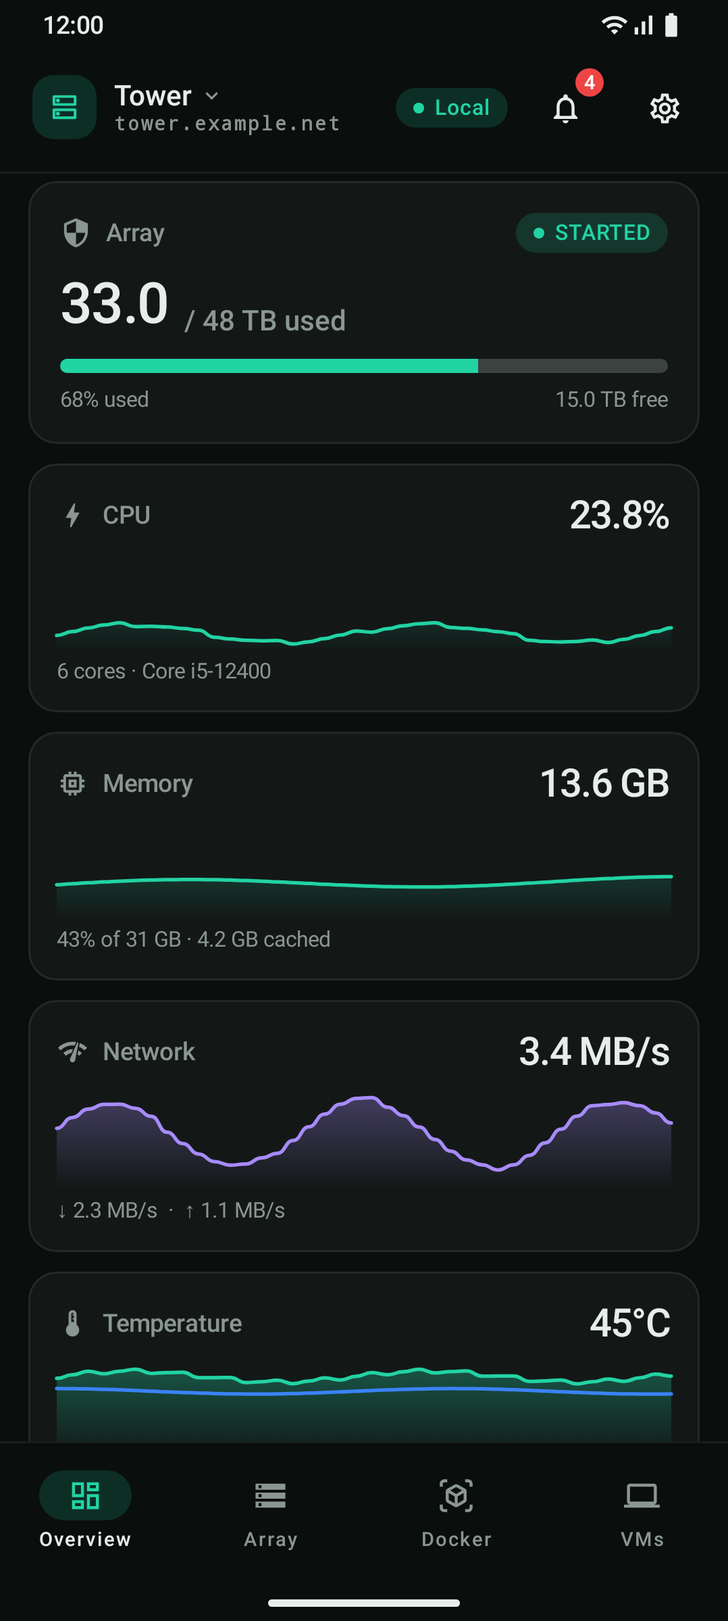
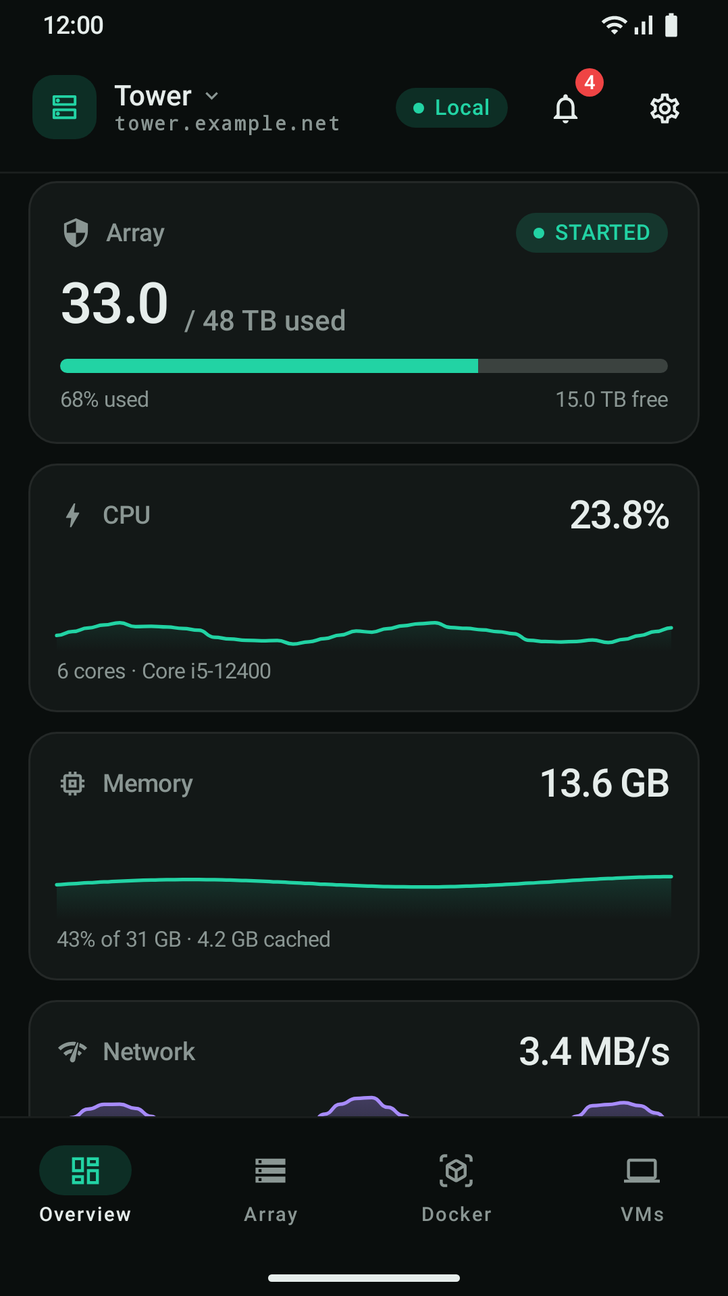
docs: store listing assets and texts ready for Google Play
Screenshots: render at 1078x1918 (9:16). Google Play rejects a longer side of
more than twice the shorter one, which the old 1078x2399 size broke; F-Droid
has no such limit, so one size serves both. All six re-rendered from the
current origin/main; site/index.html gets the new image height.

Graphics: icon.png is now a 32-bit PNG with alpha, rendered from icon.svg;
featureGraphic.png (1024x500, no alpha) is new, drawn from featureGraphic.svg
with the launcher mark, the website's colours and its Geist font (SIL OFL) and
two app screenshots. scripts/render-store-graphics.sh renders both.

Texts and declarations under docs/store/: Play title, short and full
description (Lime Technology attribution verbatim, kept apart from F-Droid's
fastlane texts), Data safety answers derived from the store flavor with
file:line evidence, content rating, target audience and ads, and the App
access text with a marked placeholder until the in-app demo mode exists.

ADR-0047 records Google Play as a third channel (store flavor, existing
release key via Play App Signing with a separate upload key, demo mode for
reviewers); ADR-0040 gets a dated amendment.

Refs #328

diff --git a/site/index.html b/site/index.html
@@ -89,7 +89,7 @@
                   src="assets/screenshots/1.png"
                   loading="lazy"
                   width="1078"
-                  height="2399"
+                  height="1918"
                   alt="The Overview tab: array capacity, CPU load, memory, network speed and temperature"
               /></a>
               <p>Overview</p>
@@ -100,7 +100,7 @@
                   src="assets/screenshots/2.png"
                   loading="lazy"
                   width="1078"
-                  height="2399"
+                  height="1918"
                   alt="The Array tab: array status with a stop button and a check parity button, then every disk with temperature and usage"
               /></a>
               <p>Array</p>
@@ -111,7 +111,7 @@
                   src="assets/screenshots/3.png"
                   loading="lazy"
                   width="1078"
-                  height="2399"
+                  height="1918"
                   alt="The Docker tab: a banner for containers with updates and a list of containers with status and CPU and memory use"
               /></a>
               <p>Docker</p>
@@ -122,7 +122,7 @@
                   src="assets/screenshots/4.png"
                   loading="lazy"
                   width="1078"
-                  height="2399"
+                  height="1918"
                   alt="The VMs tab: virtual machines with their state and a start, pause or resume button"
               /></a>
               <p>VMs</p>
@@ -133,7 +133,7 @@
                   src="assets/screenshots/5.png"
                   loading="lazy"
                   width="1078"
-                  height="2399"
+                  height="1918"
                   alt="Container details: update, restart, stop and open Web UI buttons, with tabs for info, logs, ports and volumes"
               /></a>
               <p>Container details</p>
@@ -144,7 +144,7 @@
                   src="assets/screenshots/6.png"
                   loading="lazy"
                   width="1078"
-                  height="2399"
+                  height="1918"
                   alt="The notifications sheet with Unread and Archived tabs and an Archive all button"
               /></a>
               <p>Notifications</p>

diff --git a/app/src/test/kotlin/io/github/nofuturekid/nova/ui/screenshots/StoreScreenshots.kt b/app/src/test/kotlin/io/github/nofuturekid/nova/ui/screenshots/StoreScreenshots.kt
@@ -87,8 +87,10 @@ import org.robolectric.annotation.GraphicsMode
  */
 @RunWith(AndroidJUnit4::class)
 @GraphicsMode(GraphicsMode.Mode.NATIVE)
-// Pixel-8-class phone: 411x914 dp at 420 dpi = ~1080x2400 px.
-@Config(sdk = [35], qualifiers = "w411dp-h914dp-night-420dpi")
+// 411x731 dp at 420 dpi = 1078x1918 px (9:16). Google Play rejects phone
+// screenshots whose longer side is more than twice the shorter one, which
+// the earlier 20:9 size (1078x2399) broke; F-Droid has no such limit.
+@Config(sdk = [35], qualifiers = "w411dp-h731dp-night-420dpi")
 class StoreScreenshots {
 
     @get:Rule

diff --git a/docs/store/data-safety.md b/docs/store/data-safety.md
@@ -1,0 +1,34 @@
+# Google Play Data safety: answers for NOVA (`store` flavor)
+
+Derived from the code of the `store` flavor on `origin/main` (2026-11-13, versionName 0.1.47) and checked against Google's definitions on <https://support.google.com/googleplay/android-developer/answer/10787469> (read 2026-11-13). Where Google's text does not settle a question, the answer is a judgement and marked **[judgement]**; the maintainer owns the form and enters it.
+
+## What the `store` flavor does
+
+| Fact                                                                                                                                                                | Evidence                                                                                                                                                                                                                                              |
+| ------------------------------------------------------------------------------------------------------------------------------------------------------------------- | ----------------------------------------------------------------------------------------------------------------------------------------------------------------------------------------------------------------------------------------------------- |
+| The only permissions are `INTERNET` and `ACCESS_NETWORK_STATE`. No location, contacts, camera, microphone, storage, notification or advertising-ID permission.       | `app/src/main/AndroidManifest.xml:5-6`; `REQUEST_INSTALL_PACKAGES` is removed in every flavor, `:13-15`                                                                                                                                                |
+| The store flavor makes no update calls and has no GitHub traffic.                                                                                                    | `app/build.gradle.kts:31-33` (`create("store")`, `HAS_UPDATER` false); `UpdateTracker.kt:68` `followsTheSetting = BuildConfig.HAS_UPDATER, // the store flavor makes no update calls`; `MainViewModel.kt:292,322`; `SettingsScreen.kt:117,135`           |
+| The app talks to the Unraid server the user configured, over GraphQL (HTTP and WebSocket), and sends the user's API key to it in the `x-api-key` header or the WebSocket connection payload. | `ApolloClientFactory.kt:139` `connectionPayload = { mapOf("x-api-key" to apiKey) }`; `:180` `.addHeader("x-api-key", apiKey)`                                                                                                                          |
+| Container icons are fetched from the URLs the user's server supplies (usually third-party hosts such as `raw.githubusercontent.com`); the request carries no credential or identifier of NOVA's. | `ContainerIcon.kt:36` (`SubcomposeAsyncImage(model = resolved ...)`); `docs/privacy/POLICY.md:27`                                                                                                                                                       |
+| "Open Web UI", "Source code", "Releases" and "Privacy policy" only open a URL in the user's browser on tap.                                                          | `ContainerDetailSheet.kt:286-288`; `SettingsScreen.kt:393-413`                                                                                                                                                                                         |
+| Plain HTTP is allowed to every host except three GitHub hosts, because users reach their server on the LAN by HTTP.                                                  | `AndroidManifest.xml:28` `android:usesCleartextTraffic="true"`; `res/xml/network_security_config.xml:15` `<base-config cleartextTrafficPermitted="true" />`, `:17-21` GitHub hosts HTTPS-only                                                          |
+| Stored on the device only: server names and addresses, theme settings, the API key encrypted with Tink AES-256-GCM under an Android Keystore master key, pinned certificate fingerprints. | `SettingsStore.kt:25` (`unraid_prefs`); `ApiKeyStore.kt:29` (`unraid_keys`), `:177-179` (Keystore-wrapped keyset); `docs/privacy/POLICY.md:11-14`                                                                                                      |
+| None of it is in cloud backup or device transfer.                                                                                                                    | `res/xml/backup_rules.xml:17-22`; `res/xml/data_extraction_rules.xml:15-27`                                                                                                                                                                            |
+| No analytics, crash reporting, advertising or other third-party SDK; HTTP logging is off in release builds.                                                          | dependency list `app/build.gradle.kts:148-188` (Compose, Hilt, Apollo, OkHttp, Coil, Tink, DataStore, markdown and licence viewers); `ApolloClientFactory.kt:49-53` (`Level.NONE` unless `DEBUG`); `docs/privacy/POLICY.md:29`                            |
+
+## Answers for the form
+
+| Question                                                                  | Answer                         | Why                                                                                                                                                                                                                                                                                                                                                               |
+| ------------------------------------------------------------------------- | ------------------------------ | ----------------------------------------------------------------------------------------------------------------------------------------------------------------------------------------------------------------------------------------------------------------------------------------------------------------------------------------------------------------- |
+| Does your app collect or share any of the required user data types?       | **No** **[judgement]**         | Google: "'Collect' means transmitting data off a user's device", exempting on-device processing, end-to-end encryption and ephemeral processing. NOVA's developer receives nothing. What leaves the phone goes to the server the user runs themselves and to the icon hosts that server names. Google has no rule for a user-hosted server; the nearest case (the user's own cloud storage) is exempt when the app "never collects or accesses the data". Comparable self-hosted clients on Play state "no data collected". |
+| Is all of the user data collected by your app encrypted in transit?       | **No**                         | The form asks this whatever the answer above. NOVA allows cleartext HTTP to the LAN (`AndroidManifest.xml:28`, `network_security_config.xml:15`), so it cannot claim "encrypted in transit". Answering "No" is the accurate statement.                                                                                                                            |
+| Do you provide a way for users to request that their data is deleted?     | Not applicable                 | The developer holds no user data. Uninstalling removes all local data (`docs/privacy/POLICY.md`, "Your rights").                                                                                                                                                                                                                                                  |
+| Independent security review                                               | No                             | None was done.                                                                                                                                                                                                                                                                                                                                                    |
+| Families policy                                                           | Not committed                  | The target audience is 18 and over (`app-content.md`).                                                                                                                                                                                                                                                                                                             |
+| Privacy policy URL                                                        | <https://github.com/hellwand/nova/blob/main/docs/privacy/POLICY.md> | Linked in the app under Settings, About (`SettingsScreen.kt:413`). Google asks for a "standard, non-editable webpage"; if a reviewer objects to a GitHub page, the policy can be copied to the project website (`site/`). Before the listing goes live, change the future-tense mention of Google Play in the policy.                                            |
+
+If Google's form pushes for a different answer on the first row (for example because the server address and API key count as sent off-device), the fallback is: collected, **not** shared, purpose "App functionality", data types limited to what the user typed (server address, API key), and the note that it goes only to the user's own server. Record the outcome in ADR-0047 if that happens.
+
+## Review risks noted while reading the code
+
+- `Tls.kt:114-127` (`LocalPinningTrustManager`) catches the `CertificateException` of the platform's default manager, then lets the chain pass only when it is CA-valid or matches a fingerprint the user pinned; a first-seen certificate throws unless the user confirmed it, a changed one always throws (ADR-0041, `decidePinnedTrust`). It is not a trust-all manager, but Google's FAQ (<https://support.google.com/faqs/answer/6346016>) warns about `TrustManager`s that ignore certificate errors, and the pattern of catching the exception looks similar. Whether Play's scanner flags it is unknown: watch the pre-launch report after the first upload.

diff --git a/docs/adr/0047-google-play-third-distribution-channel.md b/docs/adr/0047-google-play-third-distribution-channel.md
@@ -1,0 +1,54 @@
+# ADR-0047: Google Play as a third distribution channel
+
+- **Status**: Accepted (2026-11-13)
+- **Date**: 2026-11-13
+- **Tags**: release, distribution, signing, legal
+
+## Context
+
+NOVA ships through two channels: the signed APK on GitHub Releases (`direct` flavor) and F-Droid (`store` flavor, built and signed by F-Droid). ADR-0040 split the two flavors and left Google Play as "a separate later track reusing the same `store` flavor". On 2026-11-13 the maintainer decided that NOVA goes to Google Play (issue #328). The plan behind this ADR (Google's policies and pages read on the same day) found:
+
+- **Signing.** For a new app Google enrols Play App Signing and generates the app signing key by default. A developer "can change this default before a release is rolled out in the open testing or production track" and choose "Provide a copy of your app signing key"; the transfer goes through Google's PEPK tool, and custom keys "must be RSA 2048-bit or higher". The upload key is a separate key that the developer keeps and can reset if lost; "your upload key and app signing key should be different". A self-managed app signing key "cannot be reset if you manage it yourself and lose it" (<https://support.google.com/googleplay/android-developer/answer/9842756>).
+- **Updates across channels.** Android accepts an update only from the same signing certificate, and a `versionCode` that is higher or equal (<https://developer.android.com/google/play/app-updates>). Both flavors share the `versionCode`, so builds with one signer can update each other in place.
+- **Policy.** Play forbids an app that "may not modify, replace, or update itself using any method other than Google Play's update mechanism" (<https://support.google.com/googleplay/android-developer/answer/9888379>). The `store` flavor has no updater (`BuildConfig.HAS_UPDATER` false, `app/build.gradle.kts:31-33`) and no flavor declares `REQUEST_INSTALL_PACKAGES` (ADR-0046).
+- **Review.** Google requires "an active demo account, login information, and all other resources needed for Google Play to review your app" (<https://support.google.com/googleplay/android-developer/answer/10788890>). NOVA is useless without an Unraid server and shows only "No server configured" (`SnapshotStates.kt:119`).
+- **Format.** New apps must publish as an Android App Bundle (<https://developer.android.com/guide/app-bundle>). Nothing builds one yet.
+
+ADR-0040 contains two statements that this does not match. Its "Signing" paragraph says Play "re-signs via Play App Signing (Google holds the upload key once enrolled)": the developer holds the upload key, Google holds the app signing key. And it accepts that a GitHub-direct user must uninstall and reinstall to switch to a store, because "both stores re-sign the APK with a different key". That is true of F-Droid, and of Play only if Google generates the key.
+
+## Decision
+
+1. **NOVA is listed on Google Play.**
+2. **The `store` flavor is the Play build,** published as an Android App Bundle (`:app:bundleStoreRelease`). Same `applicationId` (`io.github.nofuturekid.nova`), same `versionCode` as the other channels. No third flavor.
+3. **The Play build carries the existing release signing key.** The maintainer gives Google a copy of the release key (the one whose certificate SHA-256 starts with `9f86baa1`, the pin in `.github/scripts/release-verify-apk.sh`) through Play App Signing, **before any open-testing or production rollout** (after that the choice cannot be made any more). A **separate upload key**, new and kept in the `release` environment, signs the bundles that are uploaded. The upload key is registered with Play; the private key of the release key stays with the maintainer, who keeps an offline backup.
+4. **Reviewers get an in-app demo mode** instead of credentials: an entry on the "No server configured" screen that shows the fictional data the store screenshots already use, without any network request. It changes the APK in every flavor, including F-Droid, and is built and released as an ordinary beta cycle (separate issue). Until it ships, the App-access answer cannot be written (`docs/store/app-access.md` holds the text with placeholders).
+5. **The listing material lives in this repository.** Images in `fastlane/metadata/android/en-US/images/` (shared with F-Droid), Play-only texts and the declarations in `docs/store/` (see `docs/store/README.md`). The Play title is `NOVA for Unraid®`; the attribution of Lime Technology's trademark policy sits in the description.
+6. **Not decided here:** the app-bundle CI job and its signing (it must fit the tag-time signing design of #295 and needs a spike), the Play account and trader declaration (the maintainer's), the demo mode's design, and whether to register F-Droid's signing key for developer verification.
+
+## Corrections to ADR-0040
+
+- "Google holds the upload key once enrolled" is wrong: the developer holds the upload key, Google the app signing key. Under this decision Google holds a copy of the existing release key as app signing key.
+- The "uninstall and reinstall once" migration no longer applies between **GitHub and Play**: both carry the same signer. It still applies between **F-Droid and either of the others**, because F-Droid signs with its own key.
+
+An amendment line in ADR-0040 points here; its text is not rewritten.
+
+## Consequences
+
+- **Positive.** GitHub users who meet the Play Protect warning (ADR-0046) can move to Play without losing their servers, and the other way round, in place. One signer for GitHub and Play keeps developer verification to one identity for those two. If the Play account is ever terminated, Play users can move to the GitHub build in place.
+- **Negative / trade-offs.** Google holds a copy of the key that also signs GitHub builds; the export is a one-time operation on the maintainer's machine that handles the private key. Losing that key cannot be undone, and it would also block the registration of packages (developer verification, <https://developer.android.com/developer-verification/guides/faq>): an offline backup is required. Whether quantum-ready hybrid signing applies to an uploaded key is not stated by Google. The demo mode is an APK change in every flavor and holds the Play review until it ships. A personal Play account must first run a closed test with at least 12 testers for 14 days before it can apply for production (<https://support.google.com/googleplay/android-developer/answer/14151465>).
+- **Trigger to revisit.** (a) Google rejects the demo mode as a substitute for credentials: add a permanently reachable reviewer server or amend this ADR. (b) Google's requirements for app signing or bundle uploads change before the first rollout. (c) The Play account is suspended or the key is compromised: the signing key must then be rotated, which breaks in-place updates in every channel at once.
+
+## Alternatives considered
+
+- **Google-generated app signing key (the default).** Safest for the key (Google holds it, quantum-ready hybrid signing), but Play installs get a different signer from GitHub builds: switching between GitHub and Play means uninstalling and losing app data, and developer verification would need the GitHub key registered separately. Rejected because NOVA's users move between GitHub and the stores.
+- **Google-generated key, plus distributing Play's universal APK on GitHub.** Would change the signer of the GitHub build and break every existing GitHub install, because updates need the same certificate. Not viable.
+- **A permanently reachable reviewer Unraid server instead of a demo mode.** No code change, but permanent internet exposure and upkeep, and a failing login is a rejection reason. Kept as the fallback; the demo mode also helps new users.
+- **Organisation account.** Needs a D-U-N-S number and is meant for a business; a private person without one uses a personal account.
+
+## References
+
+- Issue hellwand/nova#328 (decision and plan).
+- ADR-0038 and ADR-0039 (trademark compliance, name `NOVA for Unraid®`), ADR-0040 (flavors; amended), ADR-0046 (no install permission).
+- Google: Play App Signing <https://support.google.com/googleplay/android-developer/answer/9842756>; listing assets <https://support.google.com/googleplay/android-developer/answer/9866151>; metadata policy <https://support.google.com/googleplay/android-developer/answer/9898842>; App access <https://support.google.com/googleplay/android-developer/answer/15748846>; closed-test requirement <https://support.google.com/googleplay/android-developer/answer/14151465>.
+- Lime Technology, Third-Party App Naming and Trademark Use Policy (effective 2025-10-01): <https://unraid.net/policies>.
+- [Store listing material](../store/README.md).

diff --git a/docs/store/README.md b/docs/store/README.md
@@ -1,0 +1,62 @@
+# Store listings
+
+Everything the project prepares for its app-store listings that is not app code. Two stores read from here and from `fastlane/`:
+
+| Store                      | Reads                                                                                                       | Notes                                                                                                                     |
+| -------------------------- | ----------------------------------------------------------------------------------------------------------- | ------------------------------------------------------------------------------------------------------------------------- |
+| F-Droid                    | `fastlane/metadata/android/en-US/` (texts, `images/`, `changelogs/`), from the tag it builds                 | Unchanged by the Google Play work except that the images now also contain `featureGraphic.png` (F-Droid shows it).         |
+| Google Play (not live yet) | the texts in [`play-listing/`](./play-listing/) and the declarations in this folder; images from `fastlane/` | Entered by hand in Play Console. [ADR-0047](../adr/0047-google-play-third-distribution-channel.md) records the decision. |
+
+## What lives where
+
+| File                                                                                                                                      | Content                                                                                      |
+| ----------------------------------------------------------------------------------------------------------------------------------------- | -------------------------------------------------------------------------------------------- |
+| `fastlane/metadata/android/en-US/images/icon.png`, `icon.svg`                                                                             | 512x512 32-bit PNG with alpha (Play) and its source                                          |
+| `fastlane/metadata/android/en-US/images/featureGraphic.png`, `featureGraphic.svg`                                                         | 1024x500 24-bit PNG, no alpha (Play) and its source                                          |
+| `fastlane/metadata/android/en-US/images/phoneScreenshots/1.png` to `6.png`                                                                | 1078x1918 phone screenshots (F-Droid and Play)                                               |
+| [`play-listing/title.txt`](./play-listing/title.txt), [`short_description.txt`](./play-listing/short_description.txt), [`full_description.txt`](./play-listing/full_description.txt) | Texts for Play Console                                                                       |
+| [`data-safety.md`](./data-safety.md)                                                                                                       | Data safety form answers, derived from the `store` flavor's code                              |
+| [`content-rating.md`](./content-rating.md)                                                                                                 | Content rating questionnaire answers                                                          |
+| [`app-content.md`](./app-content.md)                                                                                                       | Target audience, ads and the other App content declarations                                  |
+| [`app-access.md`](./app-access.md)                                                                                                         | Instructions for Google's reviewers (blocked on the demo mode)                                |
+
+## Why Play gets its own texts
+
+F-Droid's build recipe for NOVA (`metadata/io.github.nofuturekid.nova.yml` in fdroiddata, read 2026-11-13) has `AutoName: NOVA` and no `Summary` or `Description`, so F-Droid takes the listing from `fastlane/metadata/android/en-US/` of the tag it builds. Texts for Play cannot live there without changing F-Droid's listing. They differ in three ways:
+
+- **Title.** Play: `NOVA for Unraid®` (16 characters; the `[YourApp] for Unraid®` form of ADR-0038 and ADR-0039). F-Droid keeps `NOVA`, which is the app's name there.
+- **Attribution.** Lime Technology's policy (section 6, <https://unraid.net/policies>, read 2026-11-13) wants the attribution near the first mention of "Unraid" in each medium, and lets the listing description carry the short form. The Play full description opens with the short form and ends with the long form, both verbatim from the policy. The F-Droid description still carries the older wording ("... endorsed by, or supported by Lime Technology"), as do the app's About screen (`SettingsScreen.kt`) and `docs/privacy/POLICY.md`; aligning them is a separate change (the app one needs an APK build).
+- **Claims.** The F-Droid text says "no third-party services involved". That is true of NOVA's own traffic, but container icons come from hosts the user's server names (ADR-0040, amendment 2026-11-10), so the Play text says "no NOVA account, no analytics and no advertising" instead.
+
+Limits (Google, read 2026-11-13): title 30 characters and short description 80 characters are stated on the [metadata policy](https://support.google.com/googleplay/android-developer/answer/9898842) and the [listing assets page](https://support.google.com/googleplay/android-developer/answer/9866151). The 4000-character limit for the full description is Play Console's own field limit and is **not** printed on either page. The metadata policy only asks for a "succinct and straightforward" description with no keyword stuffing, no rankings, no "best" or promotional claims, no emojis or repeated special characters. Check the lengths and the banned words with:
+
+```bash
+cd docs/store/play-listing
+for f in title short_description full_description; do printf '%s: ' "$f"; python3 -c "print(len(open('$f.txt', encoding='utf-8').read().rstrip('\n')))"; done
+grep -n -i -E '\b(free|best|#1|top|number one)\b' *.txt   # must print nothing
+```
+
+Current values: title 16, short description 74, full description 1747.
+
+When the Play listing goes live, add one line to `full_description.txt` that names the demo mode (see `app-access.md`), and change the future-tense mention of Google Play in `docs/privacy/POLICY.md` (line "and, in the future, the Google Play Store").
+
+## Rendering the graphics
+
+```bash
+./scripts/store-screenshots.sh        # re-render the phone screenshots (Docker, as local-ci does)
+./scripts/render-store-graphics.sh    # icon.png and featureGraphic.png from their SVG sources
+```
+
+The second script needs `rsvg-convert`, `magick` and `woff2_decompress`, uses the website's Geist font (SIL OFL, `site/fonts/`) through a private fontconfig file, and embeds `phoneScreenshots/1.png` and `3.png` into the feature graphic, so run it after the screenshots.
+
+### Google's numbers (read 2026-11-13)
+
+- Icon: 512x512, "32-bit PNG (with alpha)", at most 1024 KB. The existing icon was RGB without alpha and is now RGBA.
+- Feature graphic: 1024x500, "JPEG or 24-bit PNG (no alpha)".
+- Phone screenshots: JPEG or 24-bit PNG (no alpha), 2 to 8 per device type, each side 320 to 3840 px, and "the maximum dimension of your screenshot can't be more than twice as long as the minimum dimension". The earlier 1078x2399 screenshots (ratio 2.23) broke that rule.
+- Screenshot size, chosen: **1078x1918**, 411x731 dp at 420 dpi (ratio 1.78, the 9:16 portrait shape Google recommends for featuring). 1080x2160 would pass the rule at exactly 2:1 with no margin and is not Google's recommended shape; F-Droid has no size limit, so one size serves both. The screenshots are 24-bit RGB without alpha.
+
+### Still to do before the listing goes live
+
+- Re-render the screenshots once the Overview "needs attention" card and the container search land (the Docker screenshot already shows the search field; the Overview does not yet show a needs-attention card), then run `render-store-graphics.sh` again.
+- `featureGraphic.png` is new in the F-Droid image folder. F-Droid's `fdroid update` ignores the two `.svg` sources next to it (not tested here: no F-Droid tooling on this machine).

diff --git a/docs/store/app-content.md b/docs/store/app-content.md
@@ -1,0 +1,21 @@
+# Google Play App content declarations for NOVA
+
+Play Console, Policy and programs, App content. Sources: <https://support.google.com/googleplay/android-developer/answer/9859455> and <https://support.google.com/googleplay/android-developer/answer/10788890> (read 2026-11-13). The maintainer enters these; the answers are what the code and the project's decisions support.
+
+| Declaration                                  | Answer                                                                 | Basis                                                                                                                                                  |
+| -------------------------------------------- | ---------------------------------------------------------------------- | ------------------------------------------------------------------------------------------------------------------------------------------------------ |
+| Privacy policy                               | <https://github.com/hellwand/nova/blob/main/docs/privacy/POLICY.md>    | Google: "You must link to a privacy policy on your store listing and within your app". Already linked in the app (`SettingsScreen.kt:413`). See `data-safety.md` for the page-format caveat. |
+| Ads                                          | **No**, the app contains no ads                                         | No advertising SDK (`app/build.gradle.kts:148-188`; `docs/privacy/POLICY.md:29`).                                                                      |
+| App access                                   | Restricted: instructions in [`app-access.md`](./app-access.md)          | The app is unusable without an Unraid server; reviewers need a way in.                                                                                 |
+| Content rating                               | [`content-rating.md`](./content-rating.md)                              |                                                                                                                                                        |
+| Target audience and content                  | **18 and over** only                                                    | A server-administration tool; it does not appeal to children. Choosing only the adult group keeps the Families policy, which "applies to apps that include children", out of scope. |
+| Data safety                                  | [`data-safety.md`](./data-safety.md)                                    |                                                                                                                                                        |
+| Advertising ID                               | **No**, the app does not use it                                         | No advertising SDK and no `com.google.android.gms.permission.AD_ID` in the manifest (`AndroidManifest.xml:5-15`).                                      |
+| Government apps                              | No                                                                      | Independent hobby project.                                                                                                                             |
+| Financial features                           | None                                                                    | No payments, banking or loans.                                                                                                                         |
+| Health apps                                  | None                                                                    | No health features.                                                                                                                                    |
+| News app                                     | No                                                                      |                                                                                                                                                        |
+| Permissions declaration forms                | None needed (not looked up on Google's side)                            | Only `INTERNET` and `ACCESS_NETWORK_STATE`, both normal permissions (`AndroidManifest.xml:5-6`). Google's list of forms for high-risk permissions was not read. |
+| Package name                                 | `io.github.nofuturekid.nova`                                            | Must be registered when the app is created in Play Console (Play Console Requirements 3.4); it cannot be renamed later.                                |
+| Target API                                   | 36                                                                      | `app/build.gradle.kts:18`; Google requires 36 or higher for new apps and updates from 2026-08-31 (<https://support.google.com/googleplay/android-developer/answer/11926878>). |
+| Trader status (EU)                           | The maintainer's own legal declaration; the plan recommends non-trader  | See the plan in issue #328. Not decided in this repository.                                                                                            |

diff --git a/docs/store/content-rating.md b/docs/store/content-rating.md
@@ -1,0 +1,20 @@
+# Google Play content rating: questionnaire answers for NOVA
+
+Play Console, App content, Content rating (IARC questionnaire; "Unrated apps may be removed", <https://support.google.com/googleplay/android-developer/answer/9859455>). Answers below follow what the `store` flavor does; the maintainer enters them. The expected result is the lowest rating in every system; that is an expectation, not something Google has confirmed.
+
+| Question group                                                      | Answer                                                              | Basis                                                                                                              |
+| ------------------------------------------------------------------- | ------------------------------------------------------------------- | ------------------------------------------------------------------------------------------------------------------ |
+| Category                                                            | Utility, productivity, communication or other (not a game)           | A remote-administration client for a user's own NAS server.                                                         |
+| Violence, blood, fear                                               | No                                                                  | The app shows server status, disks, containers and VMs only.                                                        |
+| Sexual content, nudity                                              | No                                                                  | Same.                                                                                                              |
+| Profanity or crude humour                                           | No                                                                  | Same.                                                                                                              |
+| Controlled substances (drugs, alcohol, tobacco)                     | No                                                                  | Same.                                                                                                              |
+| Gambling or simulated gambling                                      | No                                                                  | Same.                                                                                                              |
+| User-generated content or user-to-user interaction                  | No                                                                  | The app has no accounts and no way for users to share or communicate. Container names, logs and Unraid notifications come from the user's own server and are shown only to that user. |
+| Shares the user's location with other users                         | No                                                                  | No location permission (`AndroidManifest.xml:5-6`).                                                                 |
+| Digital purchases or in-app purchases                               | No                                                                  | No billing library.                                                                                                |
+| Unrestricted web access or a web browser                            | No                                                                  | NOVA does not render web pages. Links ("Open Web UI", GitHub) are handed to the user's own browser (`ContainerDetailSheet.kt:286-288`, `SettingsScreen.kt:393-413`). |
+| Collects or shares personal data (as asked in the questionnaire)    | No (see `data-safety.md`)                                           | Same judgement as in the Data safety form; keep the two consistent.                                                 |
+| Ads                                                                 | No                                                                  | `app-content.md`.                                                                                                  |
+
+Expected outcome: PEGI 3, ESRB Everyone, USK 0, IARC 3+ (not yet confirmed by the questionnaire).

diff --git a/docs/store/app-access.md b/docs/store/app-access.md
@@ -1,0 +1,29 @@
+# Google Play App access: instructions for reviewers
+
+Play Console, App content, App access. Google's requirement: "Provide an active demo account, login information, and all other resources needed for Google Play to review your app" (<https://support.google.com/googleplay/android-developer/answer/10788890>, requirement 3.3). Credentials and resources "must be accessible at all times, reusable, and valid regardless of user location", and instructions must be in English (<https://support.google.com/googleplay/android-developer/answer/15748846>). Up to five sets of instructions fit into the form; "Any other instructions" takes free text (<https://support.google.com/googleplay/android-developer/answer/9859455>).
+
+## Status: blocked on the demo mode
+
+NOVA is a client for the user's own Unraid server. Without a server it shows only "No server configured" and "Add server" (`SnapshotStates.kt:119,130`), and adding a server needs a host and an API key. A reviewer has neither. ADR-0047 decides to give reviewers a **demo mode** inside the app, backed by the fictional data the store screenshots already use (`StoreScreenshots.kt`, server "Tower"). **That demo mode does not exist yet** (APK change in every flavor, tracked separately). Until it ships and is on the track Google reviews, the text below cannot be entered: a placeholder in the form, or a promise of something the build does not have, is a rejection reason ("If the provided password expires ... the app may be rejected", Google, answer 15748846).
+
+If a review is rejected because Google does not accept a demo mode instead of credentials, the fallback is a permanently reachable read-only Unraid server for reviewers (no code change, permanent exposure and upkeep); it needs its own decision.
+
+## Text to enter (English; fill the placeholders when the demo mode ships)
+
+```text
+NOVA is a remote client for a user's own Unraid NAS server. It has no accounts, no sign-in and no in-app purchases. No credentials are needed to review it.
+
+To look at the app with sample data:
+1. Open NOVA. The first screen says "No server configured".
+2. [PLACEHOLDER, demo mode not built yet: tap "<label of the demo entry>" on that screen.]
+3. [PLACEHOLDER: describe what the demo shows, e.g. a sample server "Tower" with an array, Docker containers, virtual machines and notifications, all fictional and fully offline.]
+4. Browse the four tabs at the bottom (Overview, Array, Docker, VMs) and tap the bell for notifications. [PLACEHOLDER: state which actions the demo accepts and which are disabled.]
+
+Real use needs the user's own Unraid server (version 7.x) with the Unraid API (Connect plugin) enabled and an API key; the app then connects only to that server. The demo makes no network request.
+```
+
+## When the demo mode ships
+
+1. Replace every `[PLACEHOLDER ...]` above with the real labels, taken from the build that goes to Play, and check each step on that build.
+2. Add one sentence naming the demo mode to `docs/store/play-listing/full_description.txt`.
+3. Re-render the screenshots if the demo entry changes the empty state, and keep the "Data safety" answer true: the demo mode must make no network request.

diff --git a/docs/local-build.md b/docs/local-build.md
@@ -83,9 +83,11 @@ and must not change it.
 
 ## Store screenshots
 
-The phone screenshots for F-Droid
+The phone screenshots for F-Droid and Google Play
 (`fastlane/metadata/android/en-US/images/phoneScreenshots/`) are rendered
-from the app's real composables and theme (dark, Pixel-class 1080x2400)
+from the app's real composables and theme (dark, 411x731 dp at 420 dpi =
+1078x1918 px; Google Play rejects a longer side of more than twice the
+shorter one, see `docs/store/README.md`)
 by a JVM test, `StoreScreenshots`, using Robolectric (native graphics)
 and a fictional demo server ("Tower", RFC 5737 addresses). No device or
 server is involved. Regenerate them with:
@@ -103,6 +105,10 @@ demo-mode-style status bar (12:00, Wi-Fi, signal, battery) and the gesture
 pill itself, in the insets the app already reserves. Edit the demo data and the list of screens in
 `app/src/test/kotlin/io/github/nofuturekid/nova/ui/screenshots/StoreScreenshots.kt`.
 Robolectric downloads its Android jar from Maven Central on first use.
+
+The store graphics (`icon.png`, `featureGraphic.png`) are rendered from SVG
+sources by `./scripts/render-store-graphics.sh`; run it after the screenshots
+(the feature graphic embeds two of them). Details: `docs/store/README.md`.
 
 ## Out of scope
 

diff --git a/docs/adr/0040-fdroid-play-distribution-flavors.md b/docs/adr/0040-fdroid-play-distribution-flavors.md
@@ -103,3 +103,7 @@ The Signing paragraph says the `store` flavor is "unsigned in CI output". `app/b
 ## Amendment 2026-11-13 — no install permission in `direct` any more
 
 [ADR-0046](./0046-update-via-browser-download.md) supersedes the parts that say the `direct` flavor declares `REQUEST_INSTALL_PACKAGES` and carries the in-app installer: `app/src/direct/AndroidManifest.xml` is gone and no flavor declares the permission. The `direct`/`store` split, `BuildConfig.HAS_UPDATER` (the update _check_ stays `direct`-only) and the signing-key consequences are unchanged. The text above stays as written.
+
+## Amendment 2026-11-13 — Play signing and the migration claim
+
+[ADR-0047](./0047-google-play-third-distribution-channel.md) corrects two statements above for Google Play. The developer holds the Play _upload_ key and Google holds the app signing key (the "Signing" paragraph has this the wrong way round). And the Play build carries the existing release key, given to Google through Play App Signing, so GitHub and Play installs update each other in place; only F-Droid, which signs with its own key, still needs an uninstall and reinstall. The text above stays as written.

diff --git a/docs/adr/README.md b/docs/adr/README.md
@@ -81,3 +81,4 @@ ADRs live under `docs/` so the CI docs-only bypass applies — pure-ADR PRs comp
 | [0044](./0044-container-detail-live-stats-overlay.md) | Surface live CPU/Mem/Net/Disk in the container detail sheet from the docker stats overlay | Accepted |
 | [0045](./0045-array-disk-display.md) | Array disk display — sleeping disks, per-disk thresholds, errors | Accepted (updated beta10 — 2026-05-30) |
 | [0046](./0046-update-via-browser-download.md) | Offer updates of the GitHub build as a browser download, without an in-app installer | Accepted |
+| [0047](./0047-google-play-third-distribution-channel.md) | Google Play as a third distribution channel | Accepted |
